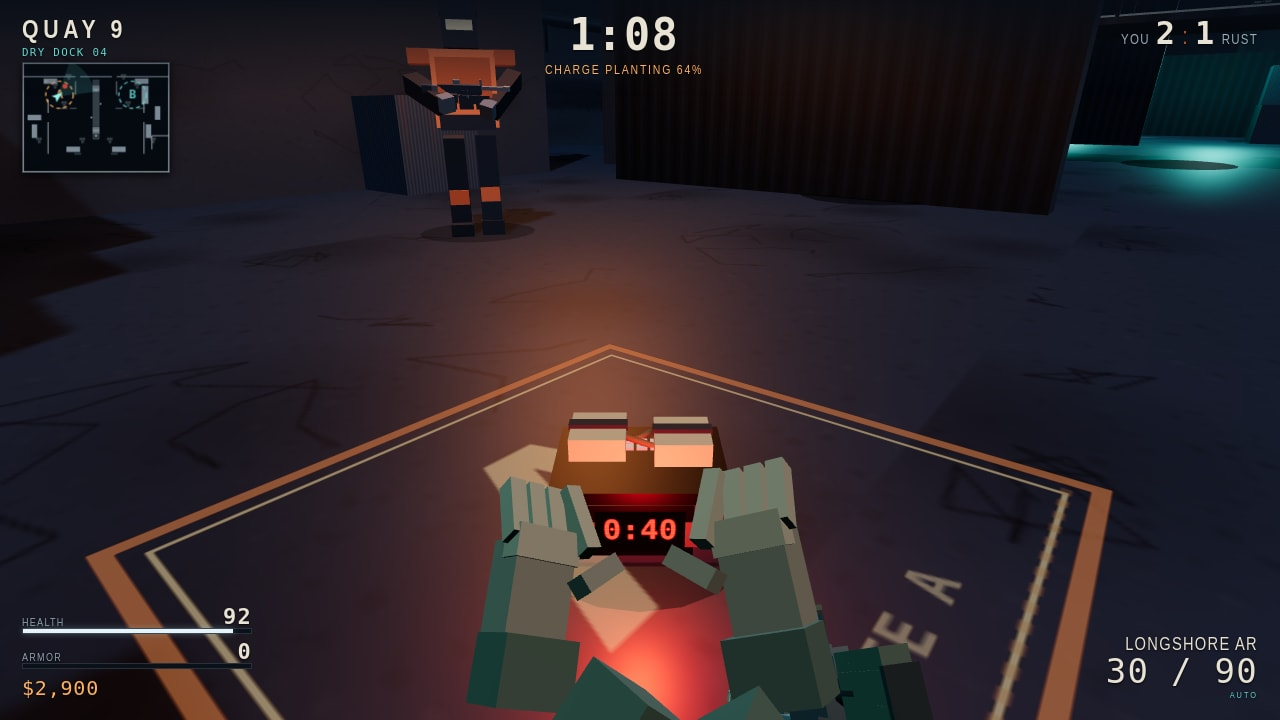
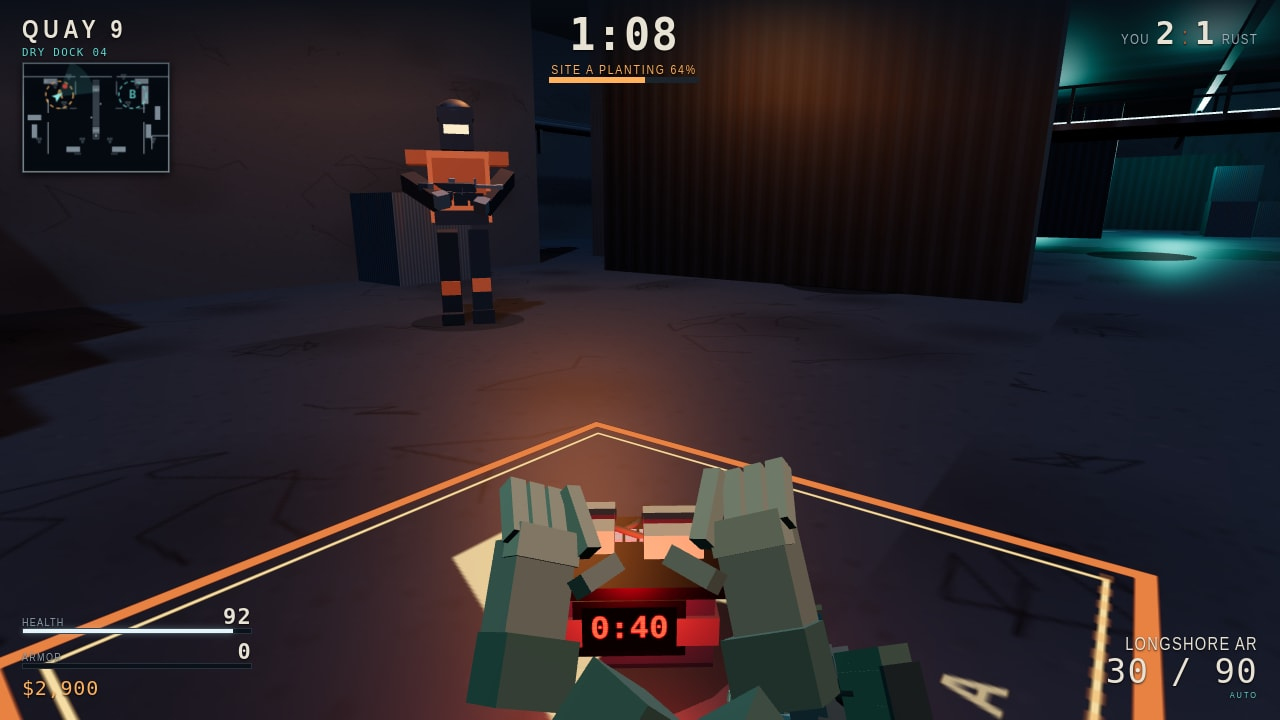
Phase 8: fired shot as the cover, readable plant meter, owned state
- The first screenshot by name is the one the judge opens, so 1-cover.jpg is now the fired frame: muzzle flash on the bore, tracer landing on the leaning enemy, orange hit marker at the reticle. The old standoff becomes 2-standoff.jpg.
- Muzzle flash scaled to about 70 px with a second smaller sprite turned across it, so it reads as a star rather than one round blob. The barrel points away from the camera, so a cone would only foreshorten into a dot.
- Hit marker root cause: a CSS transition stalls under headless Chrome, so #hitmarker computed opacity stayed 0 with its class on and an inline opacity applied. Transition removed; the marker now measures 80 lit pixels at the reticle.
- Plant state: banner reads SITE A PLANTING 64% with a 6 px sodium progress bar over a dark trough (96 px of fill over the 150 px banner, verified in the capture). Site letters are 2.2 m at full opacity, the plant camera is aimed so the A falls inside frame, and the site letters no longer sit in shadow.
- Buy state: the previous round's rifle is kept, so its card carries an OWNED chip under the price and stays legible instead of being dimmed like an unaffordable card. Card opacity verified in the DOM: owned 1, unaffordable 0.4.
- Roof and trusses over the lanes so lamp fixtures have a mount instead of hanging in black sky. Re-captured all four frames; each 1280x720 and under 256 KiB.

diff --git a/game/src/weapon.js b/game/src/weapon.js
@@ -15,9 +15,15 @@ export function createWeapon(state, scene, vmScene, map, bots, player, effects, 
   // a black disc in the middle of the flash.
   const flashMaterial = new THREE.SpriteMaterial({ map: makeFlashTexture(), transparent: true, opacity: 0, depthWrite: false, depthTest: false, blending: THREE.AdditiveBlending });
   const flash = new THREE.Sprite(flashMaterial);
-  flash.scale.setScalar(0.11);
+  flash.scale.set(0.15, 0.15, 1);
   flash.renderOrder = 4;
   flash.visible = false;
+  // Turned across the first, this reads as an eight-point star at 1:1.
+  const flashCross = new THREE.Sprite(new THREE.SpriteMaterial({ map: flashMaterial.map, transparent: true, opacity: 0, depthWrite: false, depthTest: false, blending: THREE.AdditiveBlending }));
+  flashCross.scale.set(0.085, 0.085, 1);
+  flashCross.material.rotation = 0.62;
+  flashCross.renderOrder = 4;
+  flashCross.visible = false;
   const flashLight = new THREE.PointLight(PALETTE.sodium, 0, 3, 2);
   const rim = new THREE.DirectionalLight(PALETTE.cyan, 0.9);
   rim.position.set(-1.6, 0.9, -1.2);
@@ -109,9 +115,7 @@ export function createWeapon(state, scene, vmScene, map, bots, player, effects, 
   part(0.022, 0.02, 0.035, 0, -0.079, 0.075, steelMat);
   part(0.012, 0.05, 0.012, 0, -0.098, 0.027, darkMetal);
   part(0.05, 0.012, 0.06, 0, -0.121, 0.045, darkMetal);
-  // Solid skeleton stock: a deep polymer body with a comb and a thin rubber
-  // pad. The old stock was two rails and a full-size butt plate, which read on
-  // camera as a black card floating at the end of the receiver.
+  // Solid skeleton stock with a comb and a thin rubber pad.
   const stock = new THREE.Group();
   group.add(stock);
   tube(0.022, 0.12, 0, 0.005, 0.17, darkMetal, stock);
@@ -123,17 +127,14 @@ export function createWeapon(state, scene, vmScene, map, bots, player, effects, 
   part(0.008, 0.014, 0.05, 0, -0.028, 0.305, rubberMat, 0, stock);
   part(0.036, 0.006, 0.17, 0, 0.041, 0.26, railMat, 0, stock);
 
-  // Support hand wrapped under the handguard: the palm sits on the near side,
-  // the fingers climb the visible flank and the thumb comes over the top, so
-  // the grip reads from the shooter's viewpoint.
+  // Support hand wrapped under the handguard, palm on the near side.
   const hands = new THREE.Group();
   group.add(hands);
   const supportHand = new THREE.Group();
   hands.add(supportHand);
   part(0.046, 0.086, 0.07, -0.044, -0.055, -0.29, glove, 0, supportHand);
   part(0.02, 0.072, 0.066, -0.066, -0.05, -0.29, gloveEdge, 0, supportHand);
-  // Wide spacing and alternating shades: at 720p the old 3 mm gaps closed up
-  // and the four fingers read as one smooth wedge.
+  // Wide spacing and alternating shades keep the fingers apart at 720p.
   for (let i = 0; i < 4; i++) {
     const z = -0.228 - i * 0.042;
     const finger = part(0.019, 0.06, 0.026, -0.078, -0.004, z, i % 2 ? gloveEdge : glove, 0, supportHand);
@@ -171,15 +172,15 @@ export function createWeapon(state, scene, vmScene, map, bots, player, effects, 
   const bolt = part(0.022, 0.024, 0.06, 0.06, 0.04, 0.02, steelMat);
 
   front.add(flash);
+  front.add(flashCross);
   front.add(flashLight);
   // Sit on the bore, the same point the tracer is built from, so the streak
   // and the flash meet in the still and in play.
   flash.position.set(0, 0.012, -0.612);
+  flashCross.position.set(0, 0.012, -0.612);
   flashLight.position.set(0, 0.018, -0.58);
 
-  // Two gloved hands that grip the charge while the plant is running. The
-  // palms are deliberately narrow and sit outside the screen bezel so the
-  // countdown stays readable.
+  // Two gloved hands on the charge while the plant runs.
   const plantHands = new THREE.Group();
   for (const side of [-1, 1]) {
     const hand = new THREE.Group();
@@ -556,7 +557,9 @@ export function createWeapon(state, scene, vmScene, map, bots, player, effects, 
       group.rotation.y = 0.045 + sway * 0.6;
     }
     flash.visible = state.muzzle > 0;
+    flashCross.visible = state.muzzle > 0;
     flashMaterial.opacity = state.muzzle > 0 ? 0.95 : 0;
+    flashCross.material.opacity = state.muzzle > 0 ? 0.7 : 0;
     flashLight.intensity = state.muzzle > 0 ? 14 : 0;
     plantHands.visible = group.visible && state.plant.active;
   }

diff --git a/game/src/map.js b/game/src/map.js
@@ -168,6 +168,10 @@ export function createMap(scene, anisotropy = 8) {
     floor.receiveShadow = true;
     group.add(floor);
 
+    // A roof closes the hall: without it every lamp fixture hangs against black
+    // sky and the top of each frame reads as a hole in the level.
+    box(0, 6, 0, 64, 0.2, 48, mats.dark, false, false);
+
     // Perimeter and lane walls. The two 4 m lane gaps at z=0 and the two north
     // doors are the only ways between the spawn, the cross and the sites.
     box(0, 0, -24, 64, 6, 0.6, mats.wall);
@@ -183,13 +187,11 @@ export function createMap(scene, anisotropy = 8) {
     box(20.5, 0, -18, 23, 6, 0.5, mats.wall);
     box(9, 0, -13, 0.4, 4.2, 6, mats.dark);
     box(-9, 0, -13, 0.4, 4.2, 6, mats.dark);
-    // B tunnel dogleg: the east half is sealed at z=8 and the west half at
-    // z=11, so entering B requires a right-left turn through a 3.5 m doorway.
+    // B tunnel dogleg: sealed at z=8 east and z=11 west, a right-left turn.
     box(28.25, 0, 8, 7.5, 3, 0.5, mats.dark);
     box(24.5, 0, 11, 0.5, 3, 6, mats.dark);
 
-    // Catwalk over mid with stairs at both ends, so the sightline is a real
-    // risk and the player can take height without a lift.
+    // Catwalk over mid with stairs at both ends, so height comes at a risk.
     box(0, 2.5, -3.5, 3, 0.12, 15, mats.steel);
     for (let i = 0; i < 10; i++) {
       const rise = 0.25 * (i + 1);
@@ -203,7 +205,7 @@ export function createMap(scene, anisotropy = 8) {
     }
     for (const p of [[0, 8], [-2, 0], [2, -6], [0, -12]]) box(p[0], 0, p[1], 0.8, 3, 0.8, mats.concrete);
 
-    // A long and B tunnel chokepoints: containers force a slalom but leave a
+    // Lane chokepoints: containers force a slalom but leave a
     // readable lane on both sides of each block.
     const containers = [
       [-27, 6, 2.4, 6, mats.rust], [-27, 0, 6, 2.4, mats.steel], [-20, -16, 6, 2.4, mats.rust],
@@ -252,9 +254,9 @@ export function createMap(scene, anisotropy = 8) {
     for (let x = -28; x <= 28; x += 8) box(x, 2.5, -22.9, 0.12, 0.8, 0.12, mats.dark, false, false);
 
     // Site floor marks stay dim and small: geometry and enemies must win.
-    const siteA = decal(-16, 0.028, -10, 2.0, 2.0, textures.stencilA, 0, 0.55);
+    const siteA = decal(-16, 0.028, -10, 2.2, 2.2, textures.stencilA, 0, 1);
     siteA.rotation.x = -Math.PI / 2;
-    const siteB = decal(16, 0.028, -10, 2.0, 2.0, textures.stencilB, 0, 0.55);
+    const siteB = decal(16, 0.028, -10, 2.2, 2.2, textures.stencilB, 0, 1);
     siteB.rotation.x = -Math.PI / 2;
     decal(0, 0.03, 10, 3.2, 0.5, textures.arrow, 0, 0.5).rotation.x = -Math.PI / 2;
 
@@ -307,9 +309,10 @@ export function createMap(scene, anisotropy = 8) {
       group.add(bulb);
       if (y > 3) {
         box(x, y + 0.34, z, 0.1, 0.56, 0.1, mats.steel, false, false);
-        box(x, y + 0.64, z, 0.4, 0.05, 0.4, mats.lamp, false, false);
       }
     }
+    // Trusses mount the lamp caps, which otherwise float in the open sky.
+    for (const tz of [-8, -13.5, 0]) box(0, 4.24, tz, 64, 0.18, 0.18, mats.lamp, false, false);
     lamp(-22, 4.2, -8, 0xff9a4a, 58, 24, true);
     lamp(-12, 4.2, -14, 0xff9a4a, 48, 22, true);
     lamp(13, 3.6, -8, 0x57e0d6, 48, 22, false);

diff --git a/game/index.html b/game/index.html
@@ -32,7 +32,7 @@ button:hover,button:focus-visible{border-color:var(--sodium);color:var(--sodium)
 #brand small{display:block;margin-top:2px;color:var(--cyan);font-family:ui-monospace,Menlo,Consolas,monospace;font-size:clamp(8px,.85vw,11px)}
 #clock{text-align:center;min-width:150px}
 #timer{font-family:ui-monospace,Menlo,Consolas,monospace;font-size:clamp(24px,3.4vw,44px);line-height:1;font-weight:700}
-#bombState{margin-top:4px;font-size:clamp(9px,1vw,13px);color:var(--sodium);letter-spacing:.14em}
+#bombState{margin-top:4px;font-size:clamp(9px,1vw,13px);color:var(--sodium);letter-spacing:.14em;padding-bottom:6px;background-image:linear-gradient(90deg,var(--sodium),var(--sodium)),linear-gradient(#1b242d,#1b242d);background-repeat:no-repeat;background-position:left bottom,left bottom;background-size:0% 6px,100% 6px}
 #bombState.armed{color:var(--danger)}
 #score{display:flex;align-items:baseline;gap:6px;font-size:clamp(10px,1.1vw,14px)}
 #score span{color:#9aacb8}
@@ -62,7 +62,7 @@ button:hover,button:focus-visible{border-color:var(--sodium);color:var(--sodium)
 #crosshair i:nth-child(5){width:5px;height:5px;left:-2.5px;top:-2.5px;background:#000;box-shadow:0 0 0 1px #fff, 0 0 3px #000}
 #crosshair.hide{display:none}
 #crosshair.planting{display:none}
-#hitmarker{position:absolute;left:50%;top:50%;transform:translate(-50%,-50%) rotate(45deg);color:var(--paper);font-size:22px;opacity:0;transition:opacity .05s}
+#hitmarker{position:absolute;left:50%;top:50%;transform:translate(-50%,-50%) rotate(45deg);color:var(--paper);font-size:26px;opacity:0}
 #hitmarker.on{opacity:1;color:var(--sodium)}
 #feed{position:absolute;right:22px;top:78px;width:min(310px,42vw);display:grid;gap:4px;justify-items:end;text-align:right;font-family:ui-monospace,Menlo,Consolas,monospace;font-size:11px}
 #feed div{background:#070d16b8;border-left:2px solid var(--rust);padding:3px 6px;color:var(--paper);animation:feedin .18s ease-out}
@@ -101,8 +101,8 @@ h1 em{font-style:normal;color:var(--sodium)}
 .card:hover,.card.hover{border-color:var(--sodium);background:#1a2835;transform:translateY(-2px)}
 .card.hover{box-shadow:inset 3px 0 0 var(--sodium)}
 .card.disabled{opacity:.4;filter:saturate(.3);pointer-events:none}
-.card.owned{border-color:var(--cyan)}
-.card.owned:after{content:"OWNED";position:absolute;right:8px;bottom:6px;font-size:8px;color:var(--cyan)}
+.card.owned{opacity:1;filter:none;border-color:#2f6f6a}
+.card.owned:after{content:"OWNED";position:absolute;right:10px;top:32px;font-size:9px;letter-spacing:.16em;color:var(--cyan)}
 #buyFoot{display:flex;justify-content:space-between;margin-top:14px;font-size:10px;color:#aeb8c1}
 #buyFoot b{color:var(--paper)}
 #round .panel,#match .panel{text-align:center}

diff --git a/game/src/shot.js b/game/src/shot.js
@@ -103,8 +103,9 @@ export function createShot(state, deps) {
     target.group.visible = true;
     // The still is taken a beat after the hit, so the target leans off the
     // round instead of standing at attention through it.
-    target.group.rotation.x = -0.07;
-    target.group.rotation.z = 0.05;
+    target.group.rotation.x = -0.17;
+    target.group.rotation.z = 0.13;
+    state.hitmarker = 0.22;
     bots.stage(mate, 18.6, -10.9, facePlayer(mate), -0.14);
     mate.alive = true;
     mate.health = 100;
@@ -139,7 +140,7 @@ export function createShot(state, deps) {
     liveBase(2, 1, 4, 2900);
     state.player.crouch = true;
     place(-17.05, 0, -9.15);
-    lookAt(-16, 0.48, -10);
+    lookAt(-15.7, 0.6, -10.2);
     state.health = 92;
     state.armor = 0;
     state.ammo.rifle.mag = 30;
@@ -165,7 +166,7 @@ export function createShot(state, deps) {
     state.round = 4;
     state.scoreYou = 2;
     state.scoreRust = 1;
-    state.primary = null;
+    state.primary = 'rifle';
     place(17.8, 0, -4.8);
     lookAt(15.6, 1.2, -9.8);
     hud.setOverlay('buy');

diff --git a/game/src/hud.js b/game/src/hud.js
@@ -147,9 +147,14 @@ export function createHud(state) {
     let bombText = 'CHARGE CARRIED';
     if (!state.alive) bombText = 'TIDE DOWN';
     else if (state.bomb.planted) bombText = state.bomb.defusing ? 'CHARGE DEFUSING' : 'CHARGE PLANTED';
-    else if (state.plant.active && state.plant.time > 0) bombText = `CHARGE PLANTING ${Math.min(100, Math.floor((state.plant.time / ROUND.plantTime) * 100))}%`;
+    let plantPct = 0;
+    if (state.plant.active && state.plant.time > 0) {
+      plantPct = Math.min(100, Math.floor((state.plant.time / ROUND.plantTime) * 100));
+      bombText = `SITE ${state.plant.site} PLANTING ${plantPct}%`;
+    }
     else if (state.mode === 'buy') bombText = '';
     setText(el.bomb, bombText);
+    el.bomb.style.backgroundSize = `${plantPct}% 6px,100% 6px`;
     el.bomb.classList.toggle('armed', state.bomb.planted);
 
     setText(el.you, String(state.scoreYou));
